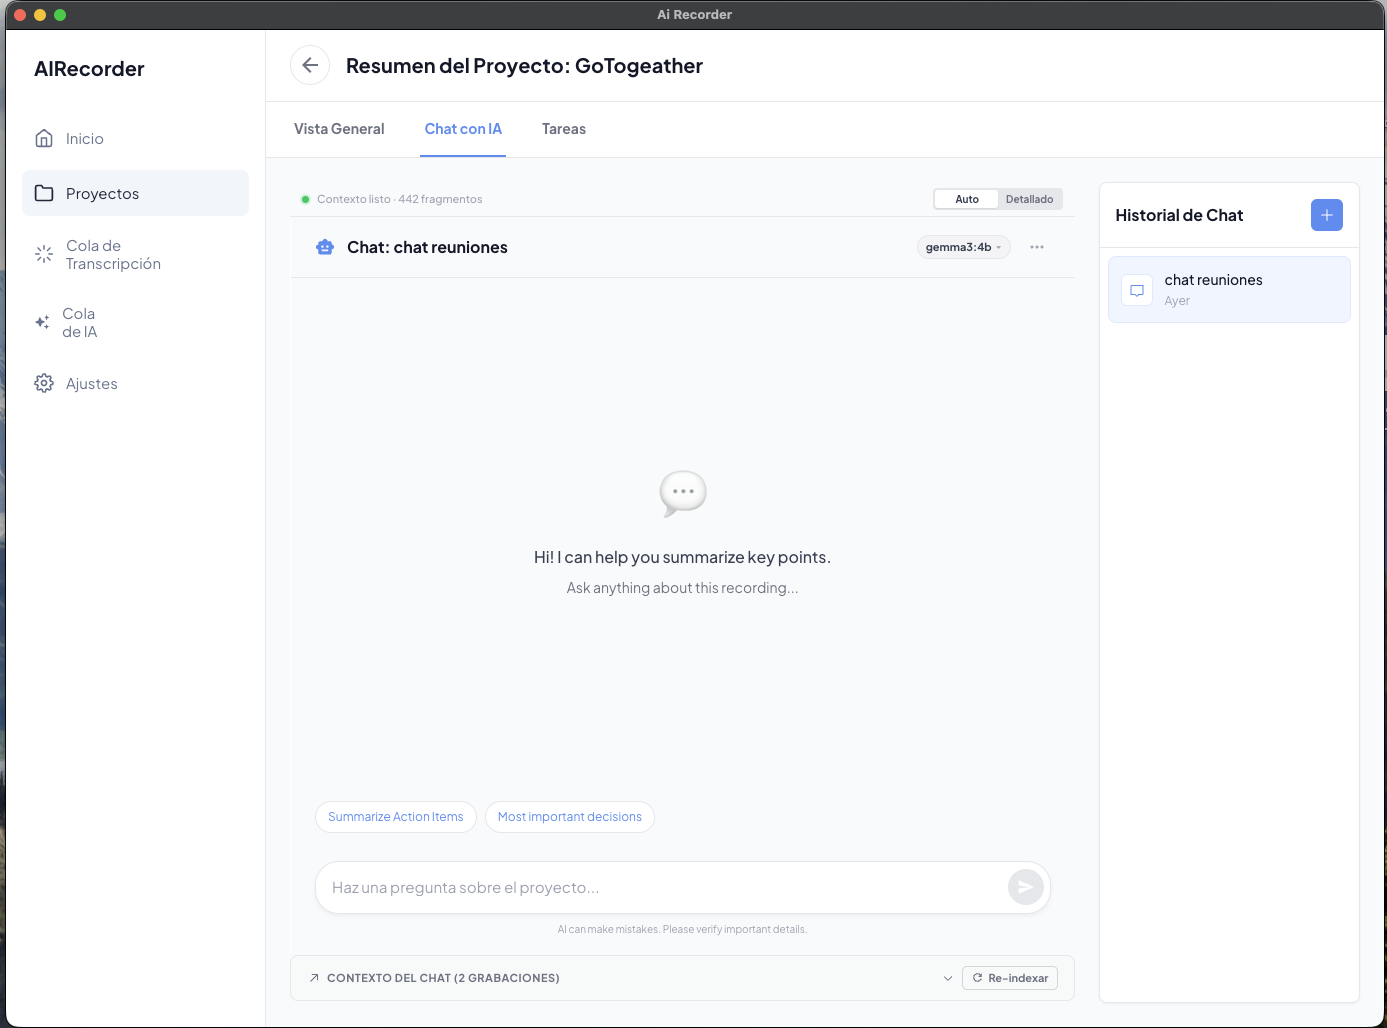
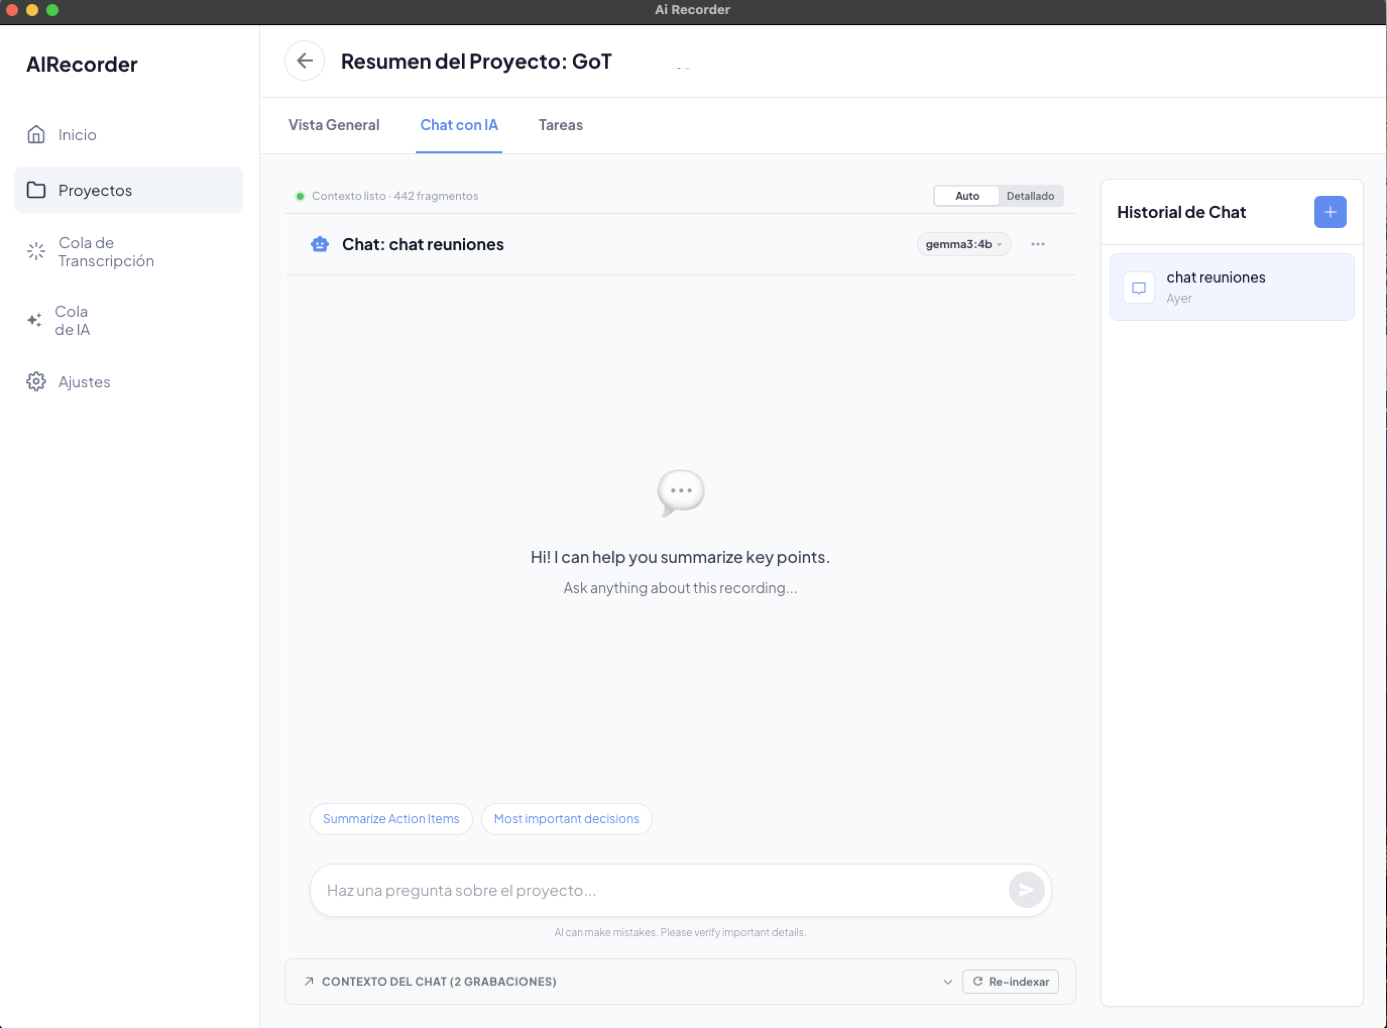
feat: actualizar capturas y Funciones

diff --git a/docs/index.html b/docs/index.html
@@ -26,6 +26,9 @@
   <link rel="preconnect" href="https://fonts.gstatic.com" crossorigin>
   <link href="https://fonts.googleapis.com/css2?family=Plus+Jakarta+Sans:wght@400;500;600;700;800;900&display=swap" rel="stylesheet">
 
+  <!-- Swiper.js -->
+  <link rel="stylesheet" href="https://cdn.jsdelivr.net/npm/swiper@11/swiper-bundle.min.css">
+
   <style>
     /* =============================================
        CSS VARIABLES (Design System de AIRecorder)
@@ -1167,11 +1170,11 @@
       border-top: 1px solid var(--color-card-border);
     }
 
-    .screenshots-grid {
-      display: grid;
-      grid-template-columns: repeat(3, 1fr);
-      gap: 28px;
+    /* Swiper container */
+    .screenshots .swiper {
       margin-top: 56px;
+      overflow: hidden;
+      padding-bottom: 48px; /* espacio para paginación */
     }
 
     .screenshot-item {
@@ -1187,6 +1190,7 @@
       box-shadow: 0 16px 48px rgba(0, 0, 0, 0.12), 0 4px 12px rgba(0, 0, 0, 0.07);
       border: 1px solid var(--color-card-border);
       transition: transform 0.3s ease, box-shadow 0.3s ease;
+      background: var(--color-white);
     }
 
     .screenshot-frame:hover {
@@ -1208,12 +1212,64 @@
       line-height: 1.4;
     }
 
-    @media (max-width: 900px) {
-      .screenshots-grid {
-        grid-template-columns: 1fr;
-        max-width: 520px;
-        margin-left: auto;
-        margin-right: auto;
+    /* Swiper Navigation (flechas) */
+    .screenshots .swiper-button-prev,
+    .screenshots .swiper-button-next {
+      width: 44px;
+      height: 44px;
+      border-radius: var(--radius-md);
+      border: 1px solid var(--color-border);
+      background: var(--color-white);
+      box-shadow: var(--shadow-card);
+      transition: var(--transition);
+    }
+
+    .screenshots .swiper-button-prev::after,
+    .screenshots .swiper-button-next::after {
+      font-size: 18px;
+      font-weight: 700;
+      color: var(--color-text);
+      transition: color 0.25s ease;
+    }
+
+    .screenshots .swiper-button-prev:hover,
+    .screenshots .swiper-button-next:hover {
+      background: var(--color-primary);
+      border-color: var(--color-primary);
+      box-shadow: var(--shadow-button);
+    }
+
+    .screenshots .swiper-button-prev:hover::after,
+    .screenshots .swiper-button-next:hover::after {
+      color: var(--color-white);
+    }
+
+    /* Swiper Pagination (dots) */
+    .screenshots .swiper-pagination-bullet {
+      width: 10px;
+      height: 10px;
+      background: #D1D5DB;
+      opacity: 1;
+      transition: all 0.3s ease;
+    }
+
+    .screenshots .swiper-pagination-bullet-active {
+      background: var(--color-primary);
+      width: 28px;
+      border-radius: 5px;
+    }
+
+    /* Responsive */
+    @media (max-width: 768px) {
+      .screenshots .swiper-button-prev,
+      .screenshots .swiper-button-next {
+        width: 36px;
+        height: 36px;
+      }
+      
+      .screenshots .swiper-button-prev::after,
+      .screenshots .swiper-button-next::after {
+        font-size: 14px;
       }
     }
   </style>
@@ -1310,27 +1366,67 @@
         <p class="section-subtitle animate-on-scroll delay-2" data-i18n="screenshotsSubtitle">Una interfaz limpia y enfocada en tu flujo de trabajo. Sin distracciones.</p>
       </div>
 
-      <div class="screenshots-grid">
-        <figure class="screenshot-item animate-on-scroll delay-1">
-          <div class="screenshot-frame">
-            <img src="screenshots/screen-home.png" alt="Pantalla de inicio de AIRecorder" loading="lazy" width="1280" height="800">
+      <div class="swiper">
+        <div class="swiper-wrapper">
+          <div class="swiper-slide">
+            <figure class="screenshot-item">
+              <div class="screenshot-frame">
+                <img src="screenshots/screen-resumen.png" alt="Resumen generado con IA" loading="lazy" width="1280" height="800">
+              </div>
+              <figcaption class="screenshot-caption" data-i18n="screenshotResumen">Resumen · Análisis e insights generados con IA</figcaption>
+            </figure>
           </div>
-          <figcaption class="screenshot-caption" data-i18n="screenshotHome">Inicio · Nueva sesión de grabación</figcaption>
-        </figure>
 
-        <figure class="screenshot-item animate-on-scroll delay-2">
-          <div class="screenshot-frame">
-            <img src="screenshots/screen-projects.png" alt="Biblioteca de proyectos" loading="lazy" width="1280" height="800">
+          <div class="swiper-slide">
+            <figure class="screenshot-item">
+              <div class="screenshot-frame">
+                <img src="screenshots/screen-audio-chat.png" alt="Chat de audio con IA" loading="lazy" width="1280" height="800">
+              </div>
+              <figcaption class="screenshot-caption" data-i18n="screenshotAudioChat">Audio Chat · Conversación en tiempo real con IA</figcaption>
+            </figure>
           </div>
-          <figcaption class="screenshot-caption" data-i18n="screenshotProjects">Proyectos · Biblioteca y grabaciones recientes</figcaption>
-        </figure>
 
-        <figure class="screenshot-item animate-on-scroll delay-3">
-          <div class="screenshot-frame">
-            <img src="screenshots/screen-ai-chat.png" alt="Chat con IA sobre el proyecto" loading="lazy" width="1280" height="800">
+          <div class="swiper-slide">
+            <figure class="screenshot-item">
+              <div class="screenshot-frame">
+                <img src="screenshots/screee-transcription.png" alt="Vista de transcripción" loading="lazy" width="1280" height="800">
+              </div>
+              <figcaption class="screenshot-caption" data-i18n="screenshotTranscription">Transcripción · Texto generado automáticamente con Whisper</figcaption>
+            </figure>
           </div>
-          <figcaption class="screenshot-caption" data-i18n="screenshotAiChat">Chat con IA · Búsqueda semántica sobre el proyecto</figcaption>
-        </figure>
+
+          <div class="swiper-slide">
+            <figure class="screenshot-item">
+              <div class="screenshot-frame">
+                <img src="screenshots/screen-home.png" alt="Pantalla de inicio de AIRecorder" loading="lazy" width="1280" height="800">
+              </div>
+              <figcaption class="screenshot-caption" data-i18n="screenshotHome">Inicio · Nueva sesión de grabación</figcaption>
+            </figure>
+          </div>
+
+          <div class="swiper-slide">
+            <figure class="screenshot-item">
+              <div class="screenshot-frame">
+                <img src="screenshots/screen-projects.png" alt="Biblioteca de proyectos" loading="lazy" width="1280" height="800">
+              </div>
+              <figcaption class="screenshot-caption" data-i18n="screenshotProjects">Proyectos · Biblioteca y grabaciones recientes</figcaption>
+            </figure>
+          </div>
+
+          <div class="swiper-slide">
+            <figure class="screenshot-item">
+              <div class="screenshot-frame">
+                <img src="screenshots/screen-ai-chat.png" alt="Chat con IA sobre el proyecto" loading="lazy" width="1280" height="800">
+              </div>
+              <figcaption class="screenshot-caption" data-i18n="screenshotAiChat">Chat con IA · Búsqueda semántica sobre el proyecto</figcaption>
+            </figure>
+          </div>
+
+        </div>
+
+        <div class="swiper-button-prev"></div>
+        <div class="swiper-button-next"></div>
+        <div class="swiper-pagination"></div>
       </div>
     </div>
   </section>
@@ -1417,7 +1513,7 @@
             </svg>
           </div>
           <h3 class="feature-title" data-i18n="feat5Title">Exportación de documentos</h3>
-          <p class="feature-desc" data-i18n="feat5Desc">Exporta transcripciones y resúmenes a DOCX o PDF con un clic. Comparte actas de reunión sin esfuerzo.</p>
+          <p class="feature-desc" data-i18n="feat5Desc">Exporta transcripciones y resúmenes a DOCX, PDF o Markdown con un clic. Comparte actas de reunión sin esfuerzo.</p>
         </div>
 
         <!-- Proyectos -->
@@ -1486,6 +1582,56 @@
           </div>
           <h3 class="feature-title" data-i18n="feat10Title">Sube audio de dispositivos externos</h3>
           <p class="feature-desc" data-i18n="feat10Desc">Grabaste con una grabadora, móvil o cualquier otro dispositivo. Sube el archivo de audio y AIRecorder lo transcribe y analiza automáticamente.</p>
+        </div>
+
+        <!-- Tareas con IA y Kanban -->
+        <div class="feature-card animate-on-scroll delay-3">
+          <div class="feature-icon">
+            <svg viewBox="0 0 24 24" fill="none" stroke="currentColor" stroke-width="2" stroke-linecap="round" stroke-linejoin="round">
+              <rect x="3" y="3" width="7" height="7" rx="1"/>
+              <rect x="14" y="3" width="7" height="7" rx="1"/>
+              <rect x="3" y="14" width="7" height="7" rx="1"/>
+              <path d="M14 17h7M17 14v7"/>
+            </svg>
+          </div>
+          <h3 class="feature-title" data-i18n="feat11Title">Tareas con IA y tablero Kanban</h3>
+          <p class="feature-desc" data-i18n="feat11Desc">La IA extrae tareas accionables de cada reunión y las organiza en un tablero Kanban con columnas Backlog, En progreso, Bloqueado y Hecho. Arrastra, edita y refina cada tarea con IA.</p>
+        </div>
+
+        <!-- Búsqueda semántica RAG -->
+        <div class="feature-card animate-on-scroll delay-4">
+          <div class="feature-icon">
+            <svg viewBox="0 0 24 24" fill="none" stroke="currentColor" stroke-width="2" stroke-linecap="round" stroke-linejoin="round">
+              <circle cx="11" cy="11" r="8"/>
+              <line x1="21" y1="21" x2="16.65" y2="16.65"/>
+              <path d="M11 8v3l2 2"/>
+            </svg>
+          </div>
+          <h3 class="feature-title" data-i18n="feat12Title">Búsqueda semántica con RAG</h3>
+          <p class="feature-desc" data-i18n="feat12Desc">Las transcripciones se indexan con embeddings vectoriales en LanceDB. El chat usa RAG para encontrar exactamente el fragmento relevante, incluso en proyectos con horas de grabaciones.</p>
+        </div>
+
+        <!-- Adjuntos como contexto -->
+        <div class="feature-card animate-on-scroll delay-5">
+          <div class="feature-icon">
+            <svg viewBox="0 0 24 24" fill="none" stroke="currentColor" stroke-width="2" stroke-linecap="round" stroke-linejoin="round">
+              <path d="M21.44 11.05l-9.19 9.19a6 6 0 0 1-8.49-8.49l9.19-9.19a4 4 0 0 1 5.66 5.66l-9.2 9.19a2 2 0 0 1-2.83-2.83l8.49-8.48"/>
+            </svg>
+          </div>
+          <h3 class="feature-title" data-i18n="feat13Title">Adjuntos como contexto para la IA</h3>
+          <p class="feature-desc" data-i18n="feat13Desc">Adjunta imágenes, PDFs, documentos o Excel a cualquier grabación o proyecto. La IA los incorpora como contexto en el chat, con soporte de visión para modelos compatibles.</p>
+        </div>
+
+        <!-- Reproductor sincronizado -->
+        <div class="feature-card animate-on-scroll delay-6">
+          <div class="feature-icon">
+            <svg viewBox="0 0 24 24" fill="none" stroke="currentColor" stroke-width="2" stroke-linecap="round" stroke-linejoin="round">
+              <polygon points="5 3 19 12 5 21 5 3"/>
+              <line x1="19" y1="3" x2="19" y2="21"/>
+            </svg>
+          </div>
+          <h3 class="feature-title" data-i18n="feat14Title">Reproductor sincronizado con la transcripción</h3>
+          <p class="feature-desc" data-i18n="feat14Desc">Haz clic en cualquier frase de la transcripción para saltar al instante exacto del audio. Reproduce micrófono y sistema como pistas independientes con control de velocidad.</p>
         </div>
 
       </div>
@@ -1786,9 +1932,12 @@
         heroNote: 'Windows próximamente · Código abierto en GitHub',
         screenshotsLabel: 'Vista previa', screenshotsTitle: 'Mira cómo funciona',
         screenshotsSubtitle: 'Una interfaz limpia y enfocada en tu flujo de trabajo. Sin distracciones.',
+        screenshotResumen: 'Resumen · Análisis e insights generados con IA',
+        screenshotAudioChat: 'Audio Chat · Conversación en tiempo real con IA',
         screenshotHome: 'Inicio · Nueva sesión de grabación',
         screenshotProjects: 'Proyectos · Biblioteca y grabaciones recientes',
         screenshotAiChat: 'Chat con IA · Búsqueda semántica sobre el proyecto',
+        screenshotTranscription: 'Transcripción · Texto generado automáticamente con Whisper',
         featLabel: 'Funciones',
         featTitle: 'Todo lo que necesitas para<br>tus reuniones y proyectos',
         featSubtitle: 'Desde la grabación hasta el análisis con IA, AIRecorder cubre todo el flujo de trabajo sin depender de servicios externos.',
@@ -1796,12 +1945,16 @@
         feat2Title: 'Transcripción automática', feat2Desc: 'Whisper de OpenAI funciona directamente en tu equipo. Alta precisión, múltiples modelos y sin enviar audio a ningún servidor.',
         feat3Title: 'Análisis con IA', feat3Desc: 'Genera resúmenes detallados, extrae puntos clave e identifica participantes automáticamente a partir de la transcripción.',
         feat4Title: 'Chat interactivo', feat4Desc: 'Pregunta a la IA directamente sobre el contenido de cualquier reunión. Extrae información, fechas, compromisos o cualquier detalle.',
-        feat5Title: 'Exportación de documentos', feat5Desc: 'Exporta transcripciones y resúmenes a DOCX o PDF con un clic. Comparte actas de reunión sin esfuerzo.',
+        feat5Title: 'Exportación de documentos', feat5Desc: 'Exporta transcripciones y resúmenes a DOCX, PDF o Markdown con un clic. Comparte actas de reunión sin esfuerzo.',
         feat6Title: 'Gestión de proyectos', feat6Desc: 'Organiza tus grabaciones en proyectos. Dashboard con estadísticas de horas, reuniones y estado de transcripciones.',
         feat7Title: 'Múltiples modelos de IA', feat7Desc: 'Compatible con Gemini, DeepSeek, Kimi en la nube, y con Ollama y LM Studio para análisis completamente local.',
         feat8Title: 'Funciona sin conexión', feat8Desc: 'Con Ollama o LM Studio, toda la cadena, grabación, transcripción y análisis, funciona sin internet ni suscripciones.',
         feat9Title: 'Importa transcripciones de Teams', feat9Desc: '¿Tu reunión fue grabada en Microsoft Teams? Importa el archivo de transcripción directamente y analízalo con IA como si lo hubieras grabado tú mismo.',
         feat10Title: 'Sube audio de dispositivos externos', feat10Desc: 'Grabaste con una grabadora, móvil o cualquier otro dispositivo. Sube el archivo de audio y AIRecorder lo transcribe y analiza automáticamente.',
+        feat11Title: 'Tareas con IA y tablero Kanban', feat11Desc: 'La IA extrae tareas accionables de cada reunión y las organiza en un tablero Kanban con columnas Backlog, En progreso, Bloqueado y Hecho. Arrastra, edita y refina cada tarea con IA.',
+        feat12Title: 'Búsqueda semántica con RAG', feat12Desc: 'Las transcripciones se indexan con embeddings vectoriales en LanceDB. El chat usa RAG para encontrar exactamente el fragmento relevante, incluso en proyectos con horas de grabaciones.',
+        feat13Title: 'Adjuntos como contexto para la IA', feat13Desc: 'Adjunta imágenes, PDFs, documentos o Excel a cualquier grabación o proyecto. La IA los incorpora como contexto en el chat, con soporte de visión para modelos compatibles.',
+        feat14Title: 'Reproductor sincronizado con la transcripción', feat14Desc: 'Haz clic en cualquier frase de la transcripción para saltar al instante exacto del audio. Reproduce micrófono y sistema como pistas independientes con control de velocidad.',
         privLabel: 'Privacidad',
         privTitle: 'Tu privacidad,<br>nuestra prioridad',
         privSubtitle: 'Tus reuniones contienen información sensible. AIRecorder está diseñado para que tus datos nunca salgan de tu equipo.',
@@ -1838,9 +1991,12 @@
         heroNote: 'Windows coming soon · Open source on GitHub',
         screenshotsLabel: 'Preview', screenshotsTitle: 'See it in action',
         screenshotsSubtitle: 'A clean interface focused on your workflow. No distractions.',
+        screenshotResumen: 'Summary · AI-generated analysis and insights',
+        screenshotAudioChat: 'Audio Chat · Real-time AI conversation',
         screenshotHome: 'Home · New recording session',
         screenshotProjects: 'Projects · Library and recent recordings',
         screenshotAiChat: 'AI Chat · Semantic search over the project',
+        screenshotTranscription: 'Transcription · Text automatically generated with Whisper',
         featLabel: 'Features',
         featTitle: 'Everything you need for<br>your meetings and projects',
         featSubtitle: 'From recording to AI analysis, AIRecorder covers the entire workflow without depending on external services.',
@@ -1848,12 +2004,16 @@
         feat2Title: 'Automatic transcription', feat2Desc: "OpenAI's Whisper runs directly on your machine. High accuracy, multiple models, no audio sent to any server.",
         feat3Title: 'AI analysis', feat3Desc: 'Generate detailed summaries, extract key points, and automatically identify participants from the transcript.',
         feat4Title: 'Interactive chat', feat4Desc: "Ask the AI directly about any meeting's content. Extract information, dates, commitments, or any detail.",
-        feat5Title: 'Document export', feat5Desc: 'Export transcripts and summaries to DOCX or PDF with one click. Share meeting minutes effortlessly.',
+        feat5Title: 'Document export', feat5Desc: 'Export transcripts and summaries to DOCX, PDF or Markdown with one click. Share meeting minutes effortlessly.',
         feat6Title: 'Project management', feat6Desc: 'Organize your recordings into projects. Dashboard with statistics on hours, meetings, and transcription status.',
         feat7Title: 'Multiple AI models', feat7Desc: 'Compatible with Gemini, DeepSeek, Kimi in the cloud, and Ollama and LM Studio for fully local analysis.',
         feat8Title: 'Works offline', feat8Desc: 'With Ollama or LM Studio, the entire chain — recording, transcription, and analysis — works without internet or subscriptions.',
         feat9Title: 'Import Teams transcripts', feat9Desc: 'Was your meeting recorded in Microsoft Teams? Import the transcript file directly and analyze it with AI as if you had recorded it yourself.',
         feat10Title: 'Upload audio from external devices', feat10Desc: 'Recorded with a recorder, phone, or any other device? Upload the audio file and AIRecorder will transcribe and analyze it automatically.',
+        feat11Title: 'AI Tasks & Kanban Board', feat11Desc: 'AI extracts actionable tasks from each meeting and organizes them into a Kanban board with Backlog, In Progress, Blocked and Done columns. Drag, edit and refine each task with AI.',
+        feat12Title: 'Semantic search with RAG', feat12Desc: 'Transcripts are indexed with vector embeddings in LanceDB. The chat uses RAG to find exactly the relevant fragment, even in projects with hours of recordings.',
+        feat13Title: 'Attachments as AI context', feat13Desc: 'Attach images, PDFs, documents or Excel files to any recording or project. The AI incorporates them as context in the chat, with vision support for compatible models.',
+        feat14Title: 'Player synced with transcript', feat14Desc: 'Click any phrase in the transcript to jump to the exact moment in the audio. Play microphone and system as independent tracks with speed control.',
         privLabel: 'Privacy',
         privTitle: 'Your privacy,<br>our priority',
         privSubtitle: 'Your meetings contain sensitive information. AIRecorder is designed so your data never leaves your machine.',
@@ -1904,5 +2064,30 @@
   </script>
 
   <script src="components.js"></script>
+
+  <!-- Swiper.js -->
+  <script src="https://cdn.jsdelivr.net/npm/swiper@11/swiper-bundle.min.js"></script>
+  <script>
+    new Swiper('.screenshots .swiper', {
+      slidesPerView: 1,
+      spaceBetween: 32,
+      loop: true,
+      speed: 600,
+      grabCursor: true,
+      autoplay: {
+        delay: 6000,
+        disableOnInteraction: false,
+        pauseOnMouseEnter: true,
+      },
+      pagination: {
+        el: '.swiper-pagination',
+        clickable: true,
+      },
+      navigation: {
+        nextEl: '.swiper-button-next',
+        prevEl: '.swiper-button-prev',
+      },
+    });
+  </script>
 </body>
 </html>